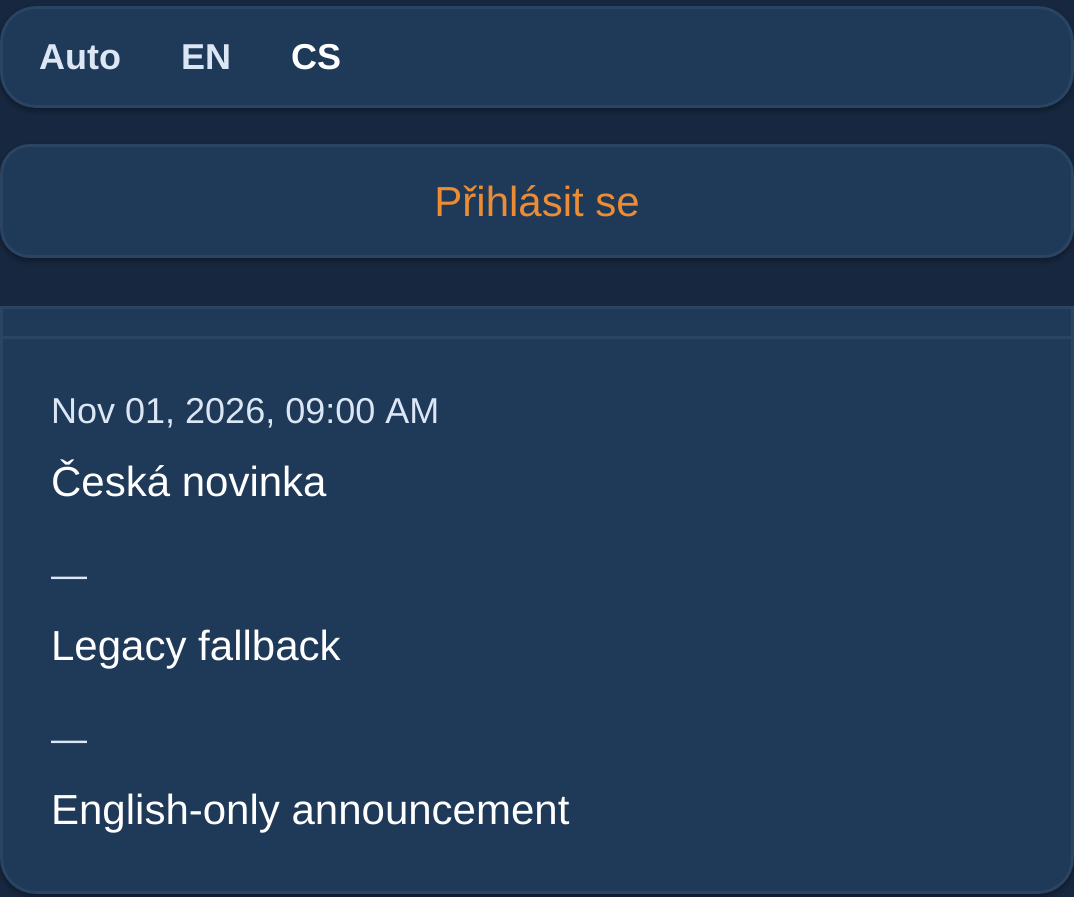
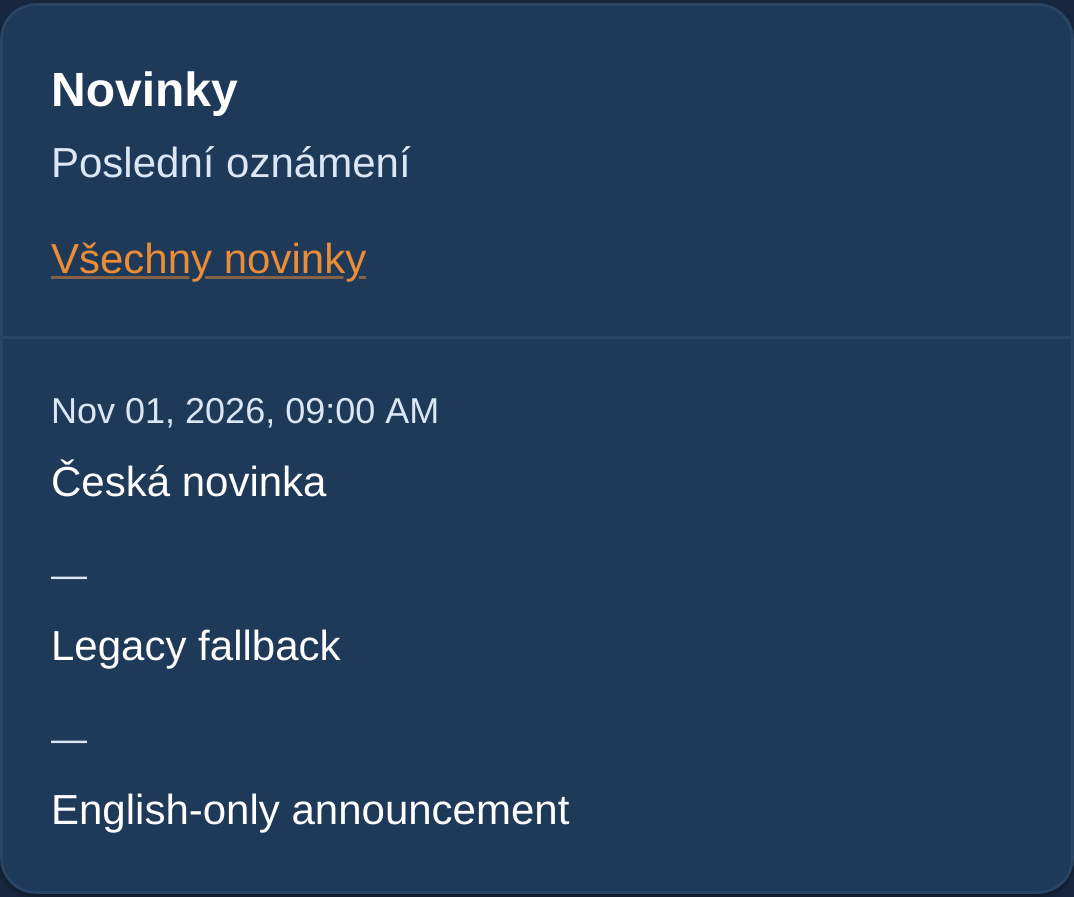
test: capture news below the public mobile menu
Close navigation before framing the news evidence so the sticky header
does not cover the announcement. Exercise reopening it for the return
language switch and retain the same content and persistence assertions.

Changed region(s): [[0.0, 0.0, 1.0, 0.2497], [0.0, 0.2497, 1.0, 0.3434]]

diff --git a/e2e/specs/public/news_language_switch.spec.ts b/e2e/specs/public/news_language_switch.spec.ts
@@ -38,6 +38,11 @@ for (const path of ['/', '/news']) {
     await expect(content).toContainText('Legacy fallback');
     await expect(content).toContainText('English-only announcement');
     await expectNoDocumentHorizontalOverflow(page);
+    const closeMenu = page.getByRole('button', { name: /^(Close menu|Zavřít menu)$/ });
+    if (await closeMenu.isVisible()) {
+      if (hasTouch) await closeMenu.tap(); else await closeMenu.click();
+    }
+    await content.evaluate((el) => window.scrollTo(0, window.scrollY + el.getBoundingClientRect().top - 80));
     await content.screenshot({ path: testInfo.outputPath('anonymous-news-cs.png') });
     await switchLanguage('EN');
     await expect(content).toContainText('English announcement');
